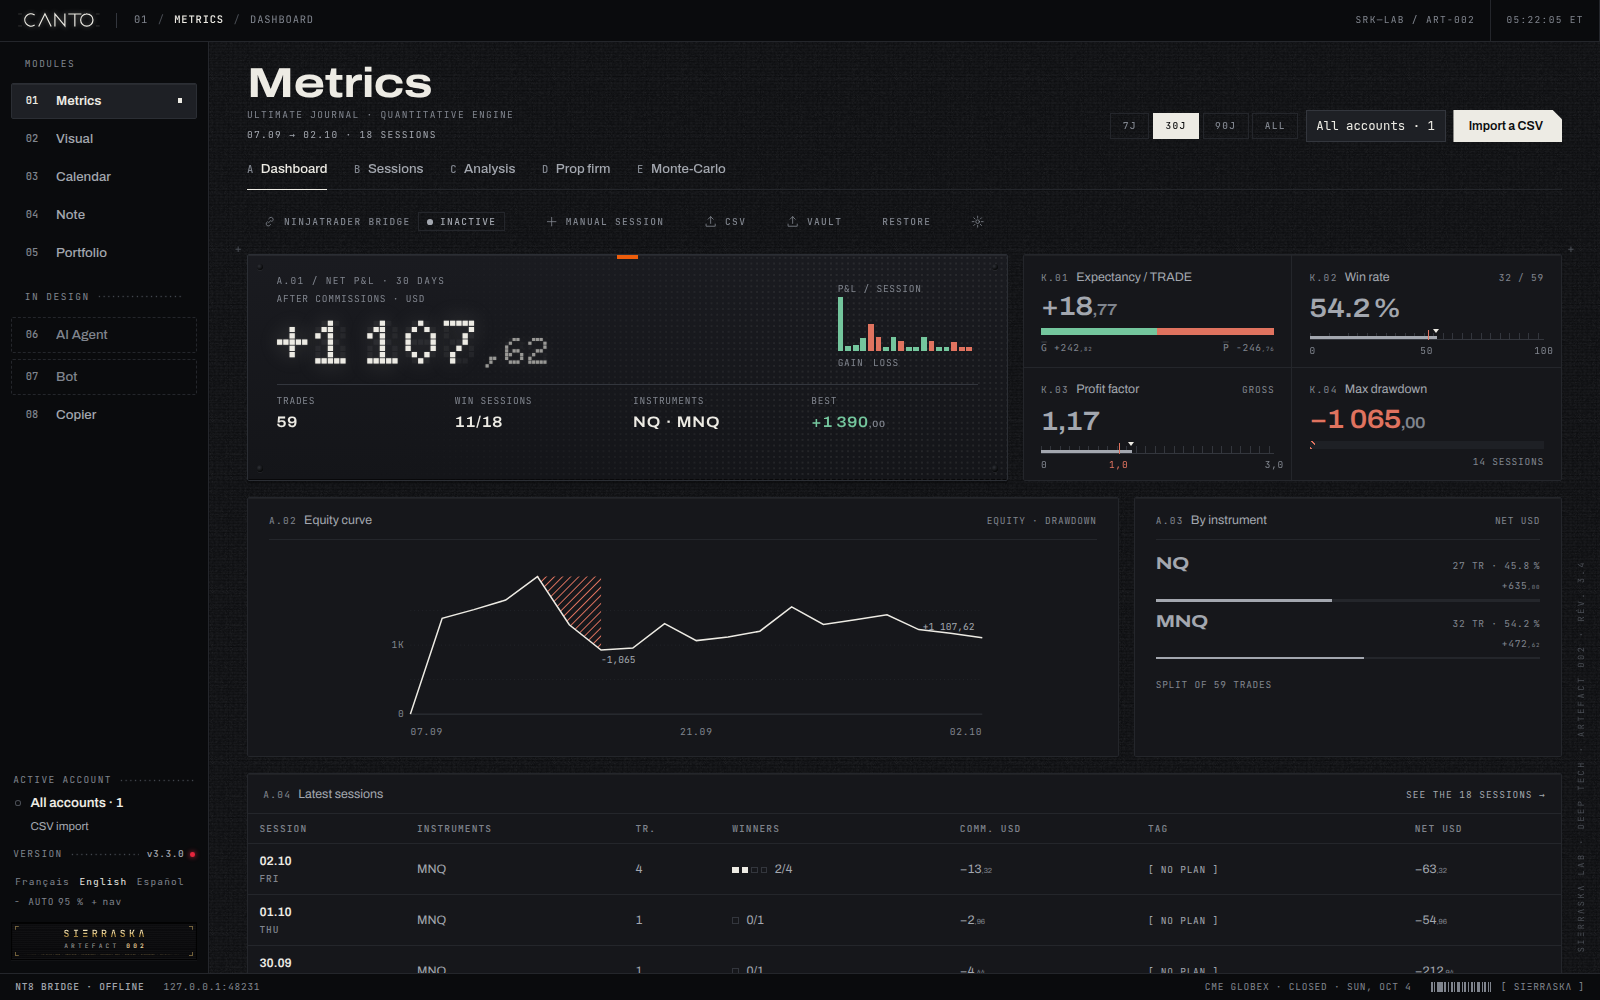
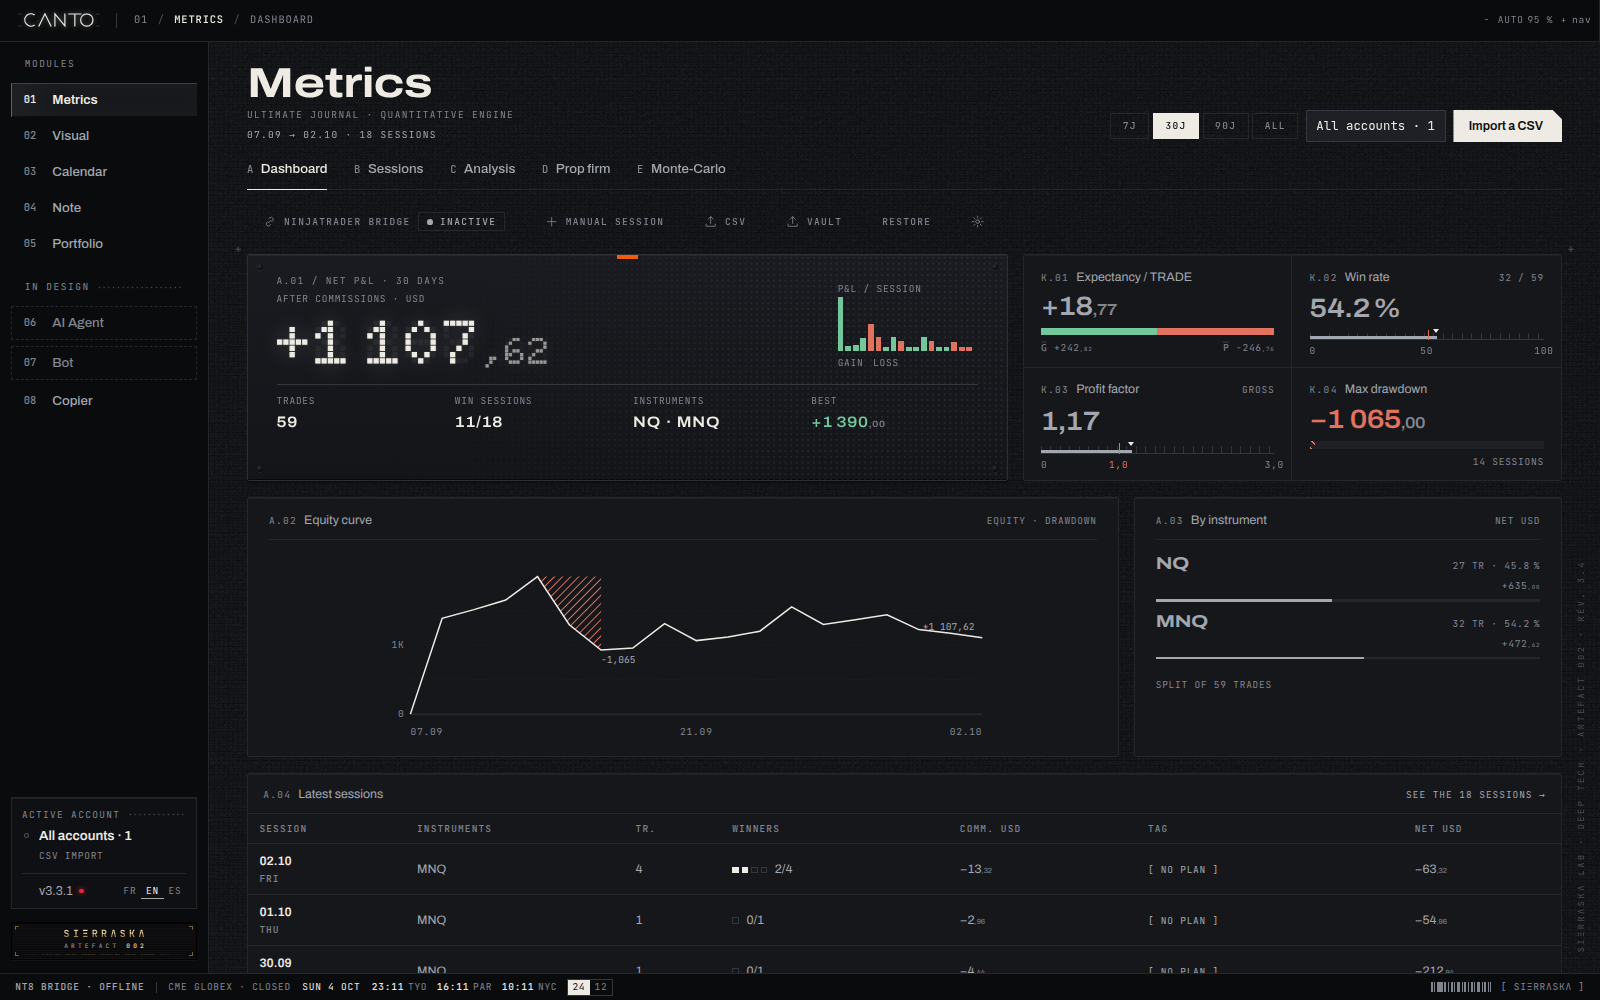
chore(release): 3.3.1
Le journal, les installeurs et le README passent en 3.3.1. Les captures montrent le chrome actuel : zoom, heures de séance, plaque du compte.

diff --git a/tests/changelog.test.ts b/tests/changelog.test.ts
@@ -43,9 +43,9 @@ describe('journal des versions', () => {
     expect(versions).toEqual(sorted);
   });
 
-  it('entriesSince(2.2.1) renvoie 3.0.0, 3.1.0, 3.2.0, 3.2.1, 3.2.2 puis 3.3.0', () => {
-    expect(entriesSince('2.2.1').map((entry) => entry.version)).toEqual(['3.0.0', '3.1.0', '3.2.0', '3.2.1', '3.2.2', '3.3.0']);
-    expect(entriesSince('v2.2.1').map((entry) => entry.version)).toEqual(['3.0.0', '3.1.0', '3.2.0', '3.2.1', '3.2.2', '3.3.0']);
+  it('entriesSince(2.2.1) renvoie 3.0.0 jusqu’à 3.3.1', () => {
+    expect(entriesSince('2.2.1').map((entry) => entry.version)).toEqual(['3.0.0', '3.1.0', '3.2.0', '3.2.1', '3.2.2', '3.3.0', '3.3.1']);
+    expect(entriesSince('v2.2.1').map((entry) => entry.version)).toEqual(['3.0.0', '3.1.0', '3.2.0', '3.2.1', '3.2.2', '3.3.0', '3.3.1']);
     expect(entryFor('3.1.0')?.kind).toBe('fonctionnalite');
     expect(entryFor('3.2.0')?.kind).toBe('fonctionnalite');
     expect(entryFor('3.2.0')?.date).toBe('2026-09-29');
@@ -58,6 +58,9 @@ describe('journal des versions', () => {
     expect(entryFor('3.2.2')?.highlights.es).toHaveLength(4);
     expect(entryFor('3.3.0')?.kind).toBe('fonctionnalite');
     expect(entryFor('3.3.0')?.highlights.fr).toHaveLength(5);
+    expect(entryFor('3.3.1')?.kind).toBe('correctif');
+    expect(entryFor('3.3.1')?.date).toBe('2026-10-04');
+    expect(entryFor('3.3.1')?.highlights.fr).toHaveLength(4);
     expect(entryFor('3.0.1')).toBeNull();
   });
 

diff --git a/tests/release-notes.test.ts b/tests/release-notes.test.ts
@@ -22,7 +22,7 @@ describe('notes de Release', () => {
     const source = JSON.parse(readFileSync(path.join(root, 'src', 'engine', 'changelog', 'changelog.json'), 'utf8')) as { entries: unknown[] };
     expect(published.schemaVersion).toBe(1);
     expect(published.entries).toHaveLength(source.entries.length);
-    expect(published.entries.at(-1)?.version).toBe('3.3.0');
+    expect(published.entries.at(-1)?.version).toBe('3.3.1');
     const text = readFileSync(notes, 'utf8');
     expect(text).toContain('### Français');
     expect(text).toContain('### English');

diff --git a/README.md b/README.md
@@ -2,13 +2,13 @@
 
 <br/>
 
-**`SIΞRRΛSKΛ—LAB · CΛNTO · ARTEFACT 002 · REV. V3.3.0 · DESK OUTPUT`**
+**`SIΞRRΛSKΛ—LAB · CΛNTO · ARTEFACT 002 · REV. V3.3.1 · DESK OUTPUT`**
 
 # CΛNTO
 
 ### A local trading desk for CME Group futures (Nasdaq, S&P, Russell, Dow, crude, gold, euro FX)
 
-An artefact from **SIΞRRΛSKΛ Lab** — a local desk for prop-firm traders: quantitative journal, NinjaTrader 8 bridge, official calendar, notes, portfolio, and a Copier that replicates in simulation. **v3.3.0** installs natively on **macOS, Windows, and Linux**. Data stays on the machine. On arrival the desk stays closed until it opens.
+An artefact from **SIΞRRΛSKΛ Lab** — a local desk for prop-firm traders: quantitative journal, NinjaTrader 8 bridge, official calendar, notes, portfolio, and a Copier that replicates in simulation. **v3.3.1** installs natively on **macOS, Windows, and Linux**. Data stays on the machine. On arrival the desk stays closed until it opens.
 
 > The code is under the [MIT license](LICENSE). The names CΛNTO and SIΞRRΛSKΛ, and the visual identity, are not granted by this license.
 
@@ -59,7 +59,7 @@ An artefact from **SIΞRRΛSKΛ Lab** — a local desk for prop-firm traders: qu
 
 CΛNTO is the Lab’s **local desk** for **prop-firm traders** and **CME Group futures**, next to NinjaTrader 8. One Electron window, eight modules on the rail, one IndexedDB vault — nothing leaves the machine. The Copier replicates in simulation and starts disarmed. On arrival the desk stays closed; it opens onto the modules only after that.
 
-| Module | In 3.3.0 |
+| Module | In 3.3.1 |
 |---|---|
 | `01 · MET` Metrics | Journal, prop replay, Monte Carlo |
 | `02 · VIS` Visual | Registry candles, indicators, live bars when the NT8 bridge is connected |
@@ -86,19 +86,19 @@ CΛNTO is the Lab’s **local desk** for **prop-firm traders** and **CME Group f
 
 ## Get started
 
-**v3.3.0** is the current release: the execution port, the Copier on the rail as `08 · CPY`, note branches, and a desk that stays closed on arrival. The application installs without cloning the repository. The C# AddOn is **not compiled inside NinjaTrader 8 by this repository**. On Windows, copy `CantoBridge.cs` into the NinjaTrader AddOns folder and compile it (F5).
+**v3.3.1** is the current release: a lighter title bar, session clocks for Tokyo, Paris, and New York, the account plate in the rail, and an opening that draws Desk Unlocked before the desk splits. It keeps the execution port, the Copier on the rail as `08 · CPY`, note branches, and a desk that stays closed on arrival. The application installs without cloning the repository. The C# AddOn is **not compiled inside NinjaTrader 8 by this repository**. On Windows, copy `CantoBridge.cs` into the NinjaTrader AddOns folder and compile it (F5).
 
 | OS | Installer | What you get |
 |---|---|---|
-| **macOS** 12+ (Apple silicon and Intel) | `CANTO-3.3.0-mac-universal.dmg` | Application in `/Applications`. The file bridge lives in the desk. |
-| **Windows** 10 / 11 (x64 and ARM) | `CANTO-3.3.0-win-x64-setup.exe` (or `arm64`) | NSIS wizard (choose the folder, shortcut). Portable: `CANTO-3.3.0-win-x64-portable.exe`. |
-| **Linux** x64 and ARM64 | `CANTO-3.3.0-linux-x86_64.AppImage` or `CANTO-3.3.0-linux-amd64.deb` | ARM64: `linux-arm64.AppImage` and `linux-arm64.deb`. |
+| **macOS** 12+ (Apple silicon and Intel) | `CANTO-3.3.1-mac-universal.dmg` | Application in `/Applications`. The file bridge lives in the desk. |
+| **Windows** 10 / 11 (x64 and ARM) | `CANTO-3.3.1-win-x64-setup.exe` (or `arm64`) | NSIS wizard (choose the folder, shortcut). Portable: `CANTO-3.3.1-win-x64-portable.exe`. |
+| **Linux** x64 and ARM64 | `CANTO-3.3.1-linux-x86_64.AppImage` or `CANTO-3.3.1-linux-amd64.deb` | ARM64: `linux-arm64.AppImage` and `linux-arm64.deb`. |
 
 <a id="installer"></a>
 
 ### macOS
 
-1. Download the DMG from the [GitHub Release v3.3.0](https://github.com/0xSrk/C-NTO/releases/tag/v3.3.0), or run `npm run dist:mac` on a Mac.
+1. Download the DMG from the [GitHub Release v3.3.1](https://github.com/0xSrk/C-NTO/releases/tag/v3.3.1), or run `npm run dist:mac` on a Mac.
 2. Open the DMG and drag **CΛNTO** into **Applications**.
 3. First launch: right-click the app › **Open** (the DMG is not Apple-signed; Gatekeeper asks for this confirmation once).
 4. The launcher, then the desk, open. Metrics › NinjaTrader bridge creates `~/Documents/NinjaTrader 8/export/CANTO` and watches it.
@@ -109,9 +109,9 @@ From source (development): double-click `CANTO.command`, or `chmod +x CANTO.sh &
 
 ### Windows
 
-1. Run `CANTO-3.3.0-win-x64-setup.exe` (or `arm64` on Windows ARM).
+1. Run `CANTO-3.3.1-win-x64-setup.exe` (or `arm64` on Windows ARM).
 2. Choose the folder, finish the wizard, and open **CΛNTO** from the Start menu.
-3. No-install variant: `CANTO-3.3.0-win-x64-portable.exe`.
+3. No-install variant: `CANTO-3.3.1-win-x64-portable.exe`.
 4. Metrics › NinjaTrader bridge › default folder `Documents\NinjaTrader 8\export\CANTO`.
 5. Real time: `CantoBridge.cs` ships in `resources/ninjatrader/` next to the executable (sources: `ninjatrader/CantoBridge.cs`). Copy it to `Documents\NinjaTrader 8\bin\Custom\AddOns\`, then NinjaScript Editor › Compile (F5). In the desk, **Write the NinjaTrader configuration** so the AddOn reads `bridge.json` (port and token) and opens the WebSocket. The CSV file is still written in parallel.
 
@@ -121,8 +121,8 @@ From source: double-click `CANTO.cmd`. The Electron binary is downloaded and ext
 
 ### Linux
 
-1. **AppImage** (no system install): `chmod +x CANTO-3.3.0-linux-x86_64.AppImage && ./CANTO-3.3.0-linux-x86_64.AppImage`. ARM64: `CANTO-3.3.0-linux-arm64.AppImage`.
-2. **Debian / Ubuntu**: `sudo apt install ./CANTO-3.3.0-linux-amd64.deb` (ARM64: `CANTO-3.3.0-linux-arm64.deb`), then launch `canto` or **CΛNTO** from the menu.
+1. **AppImage** (no system install): `chmod +x CANTO-3.3.1-linux-x86_64.AppImage && ./CANTO-3.3.1-linux-x86_64.AppImage`. ARM64: `CANTO-3.3.1-linux-arm64.AppImage`.
+2. **Debian / Ubuntu**: `sudo apt install ./CANTO-3.3.1-linux-amd64.deb` (ARM64: `CANTO-3.3.1-linux-arm64.deb`), then launch `canto` or **CΛNTO** from the menu.
 3. The bridge creates `~/Documents/NinjaTrader 8/export/CANTO`. Same rule as macOS: the AddOn runs inside NinjaTrader 8 on Windows; the Linux desk imports the CSVs from that folder.
 
 From source: `chmod +x CANTO.sh && ./CANTO.sh`.
@@ -179,7 +179,7 @@ Every install opens on the **launcher** — desk language, version check, and th
 
 | State | Behavior |
 |---|---|
-| Up to date | The button shows `v3.3.0` (quiet) |
+| Up to date | The button shows `v3.3.1` (quiet) |
 | Update available | The button turns **amber / yellow** — one click installs and relaunches |
 
 ---
@@ -315,7 +315,7 @@ From Metrics › Sessions › **See in Visual**, one day’s trades are projecte
 
 ### Grid + stream · FOMC / NFP / CPI · day’s notes · overlaid PnL
 
-<img src="docs/media/calendrier.png" alt="CΛNTO — Calendar: September grid, FOMC, beginner notes" width="920"/>
+<img src="docs/media/calendrier.png" alt="CΛNTO — Calendar: October 2026 grid, CPI, day panel" width="920"/>
 
 <sub>October 2026 grid — colored families, journal PnL in the cells, day panel, beginner markers.</sub>
 
@@ -601,6 +601,7 @@ System 3.4 — **[docs/DESIGN.md](docs/DESIGN.md)** (the previous grammar is arc
 
 The journal inside the desk lists the same releases, in French, English, and Spanish.
 
+- 3.3.1 — Lighter title bar, session clocks, account plate, and the Desk Unlocked opening. (2026-10-04)
 - 3.3.0 — Execution port. Copier on the rail as `08 · CPY`, simulation only, disarmed on every launch. A note can branch another. The desk stays closed on arrival. (2026-10-04)
 - 3.2.2 — New icon and logotype. Cleaner menu, thinner Lab signature plate. (2026-09-30)
 - 3.2.1 — Lab signature plate, minus sign kept on negative amounts, installer checksums. (2026-09-30)
@@ -619,7 +620,7 @@ The journal inside the desk lists the same releases, in French, English, and Spa
 
 ## Roadmap
 
-Shipped in 3.3.0: the execution port, simulation replication, and the Copier on the rail.
+Shipped in 3.3.1: the desk chrome and the Desk Unlocked opening. Shipped in 3.3.0: the execution port, simulation replication, and the Copier on the rail.
 
 Still ahead of the desk: the agent remains a prototype, and Bot remains design — it sends no order. The Copier does not follow a real account in this version.
 
@@ -647,6 +648,6 @@ Fonts shipped with the desk (copied next to the launcher at build time, license 
 <div align="center">
 <br/>
 
-**`SIΞRRΛSKΛ—LAB · CΛNTO · ARTEFACT 002 · REV. A · DESK OUTPUT · v3.3.0`**
+**`SIΞRRΛSKΛ—LAB · CΛNTO · ARTEFACT 002 · REV. A · DESK OUTPUT · v3.3.1`**
 
 </div>
